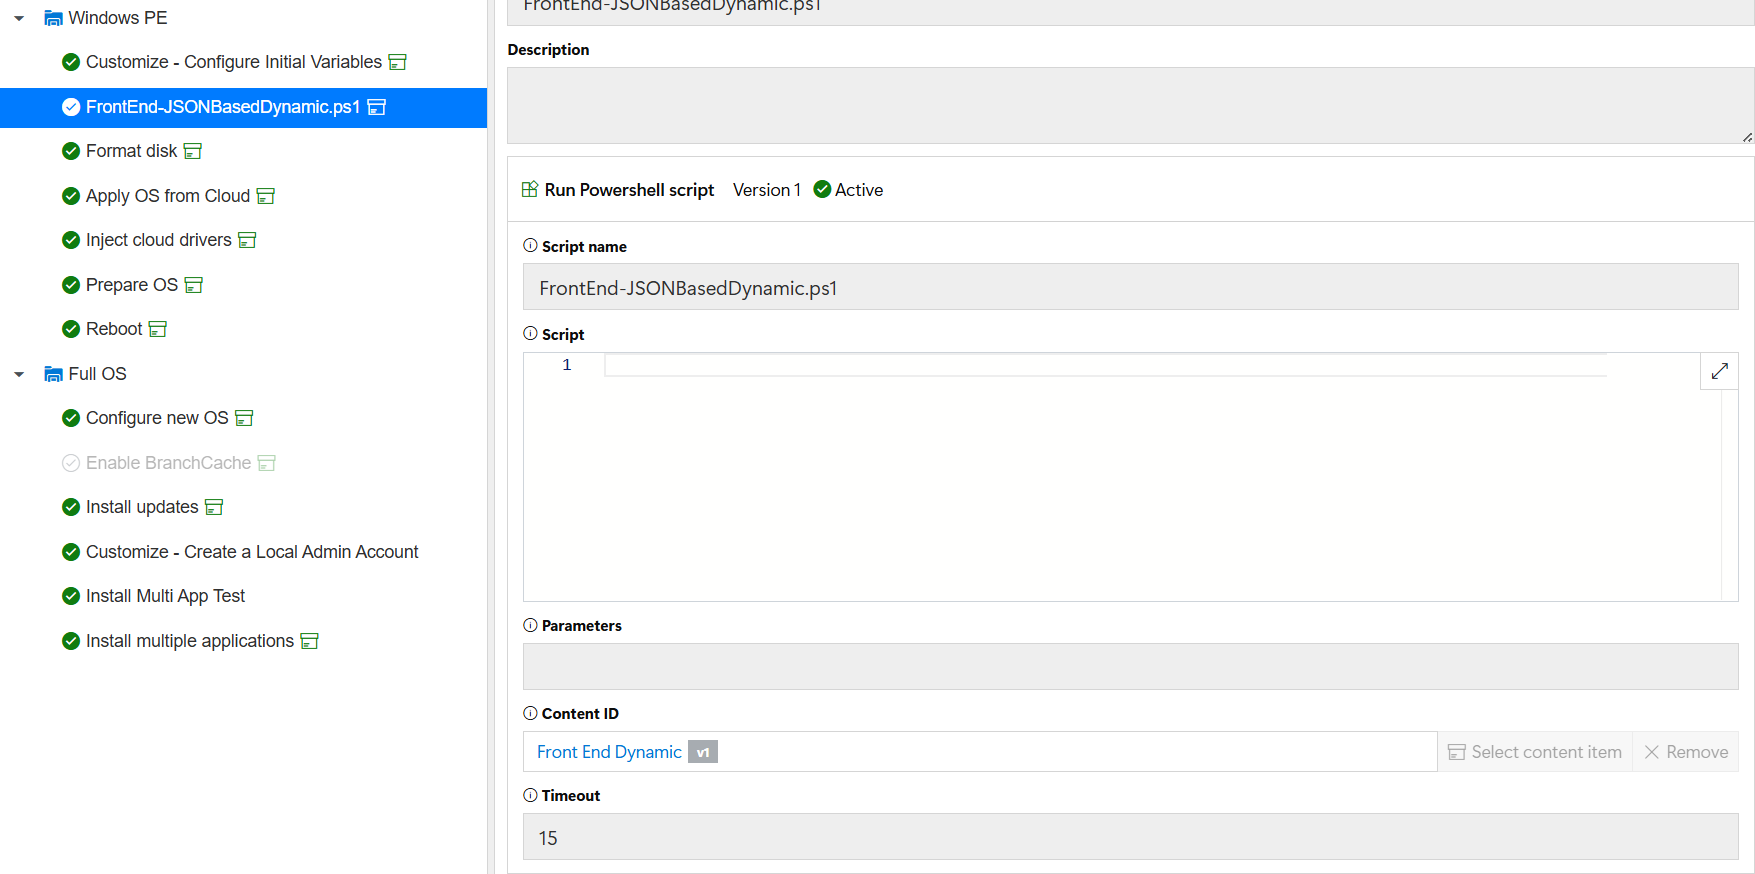
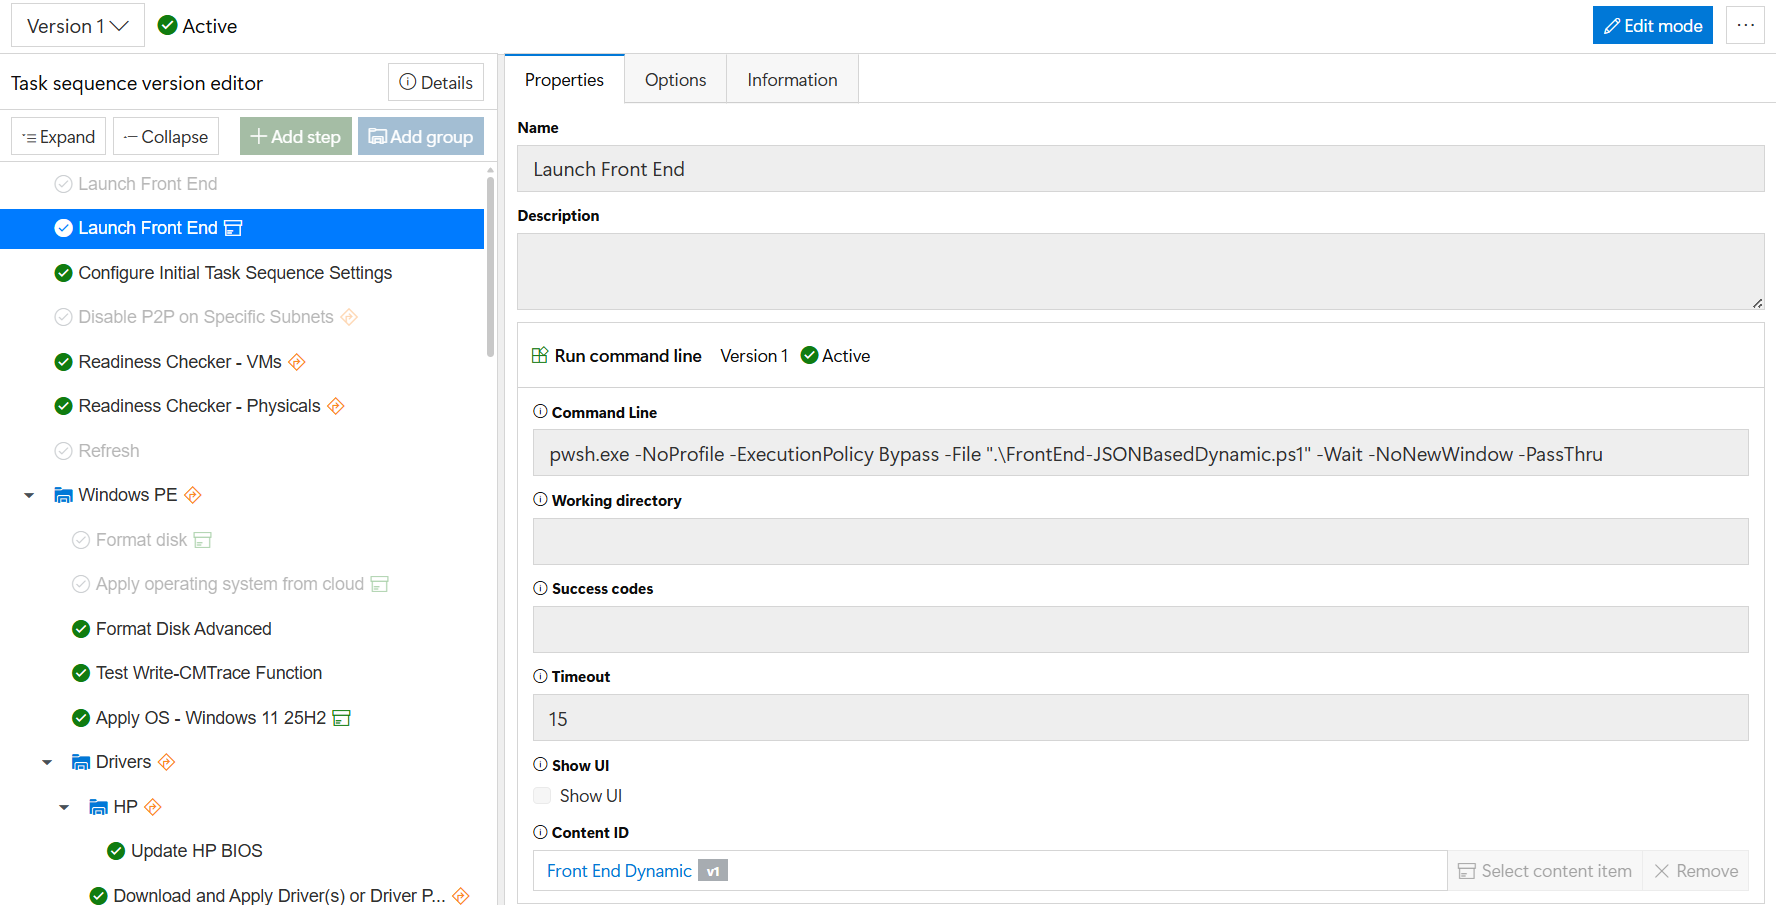
Updated Process

diff --git a/DeployR/FrontEnd/FrontEndJSONDrivenDynamicApps/readme.md b/DeployR/FrontEnd/FrontEndJSONDrivenDynamicApps/readme.md
@@ -45,8 +45,13 @@ The Frontend you just call the PowerShell script: (After you made a content item
 
 Then later in the Task Sequence you call the step to install the apps:
 
-![DFE05](./media/DFE06.png)
+![DFE06](./media/DFE06.png)
 
 There you have it.
+Now in the Task Sequence:
+
+![DFE07](./media/DFE07.png)
+
+
 
 If you have questions, post them on Reddit in the 2Pint DeployR area, or find me on Discord WinAdmins
